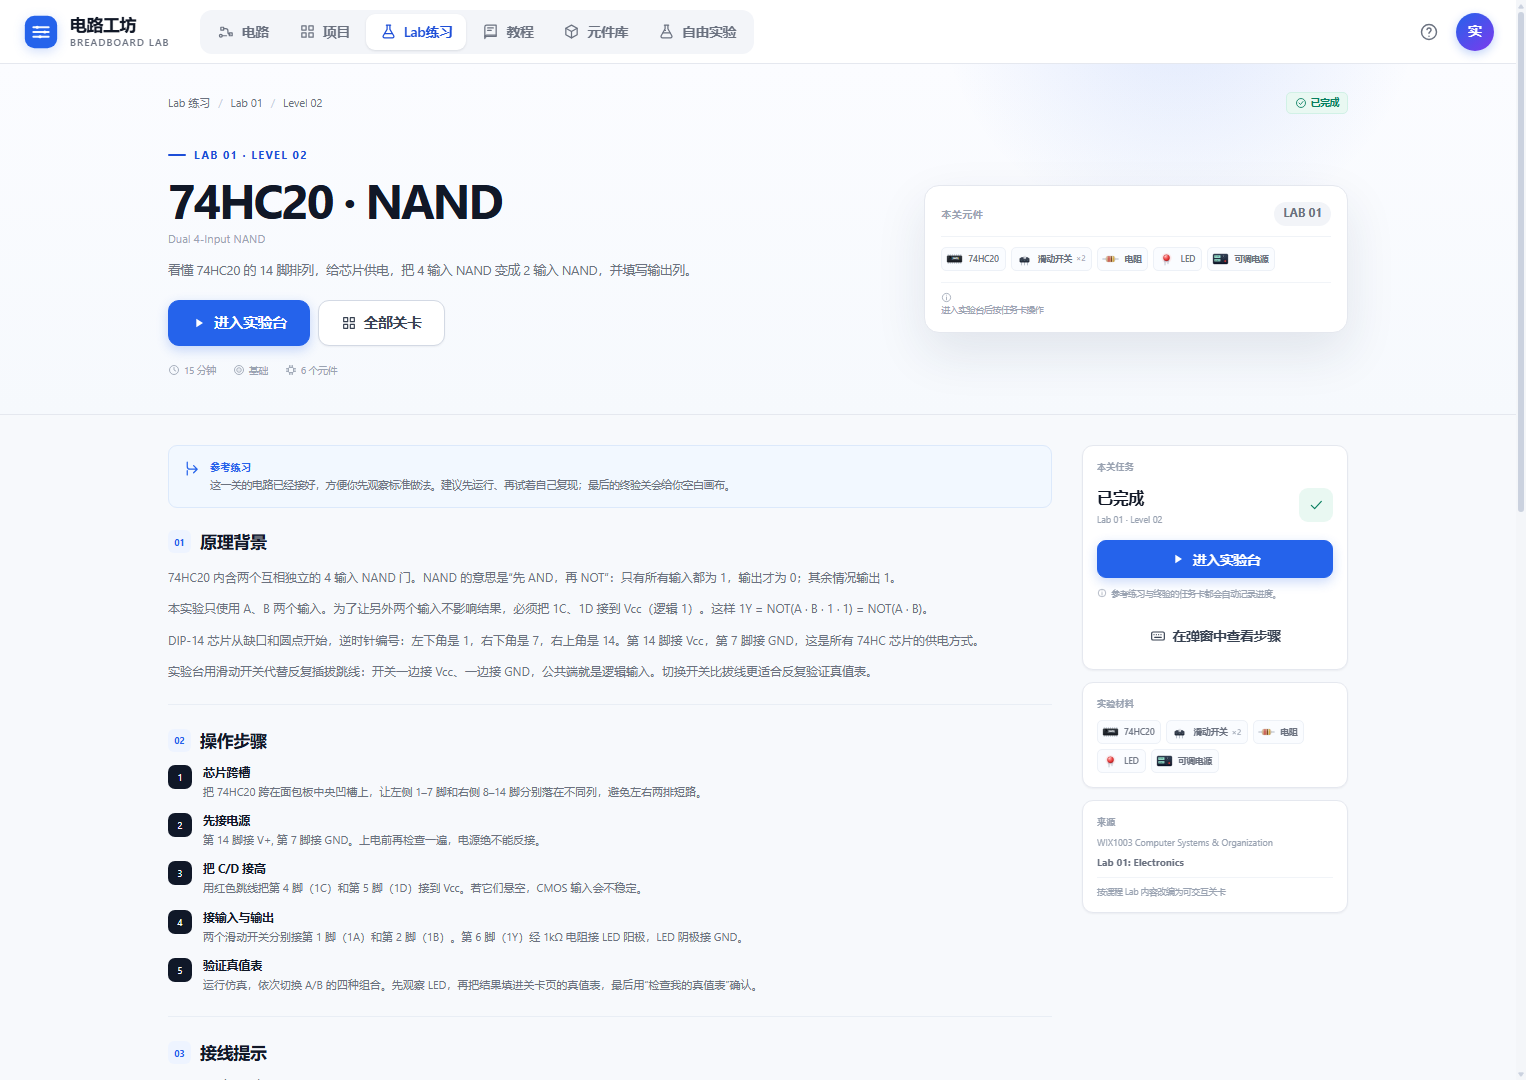
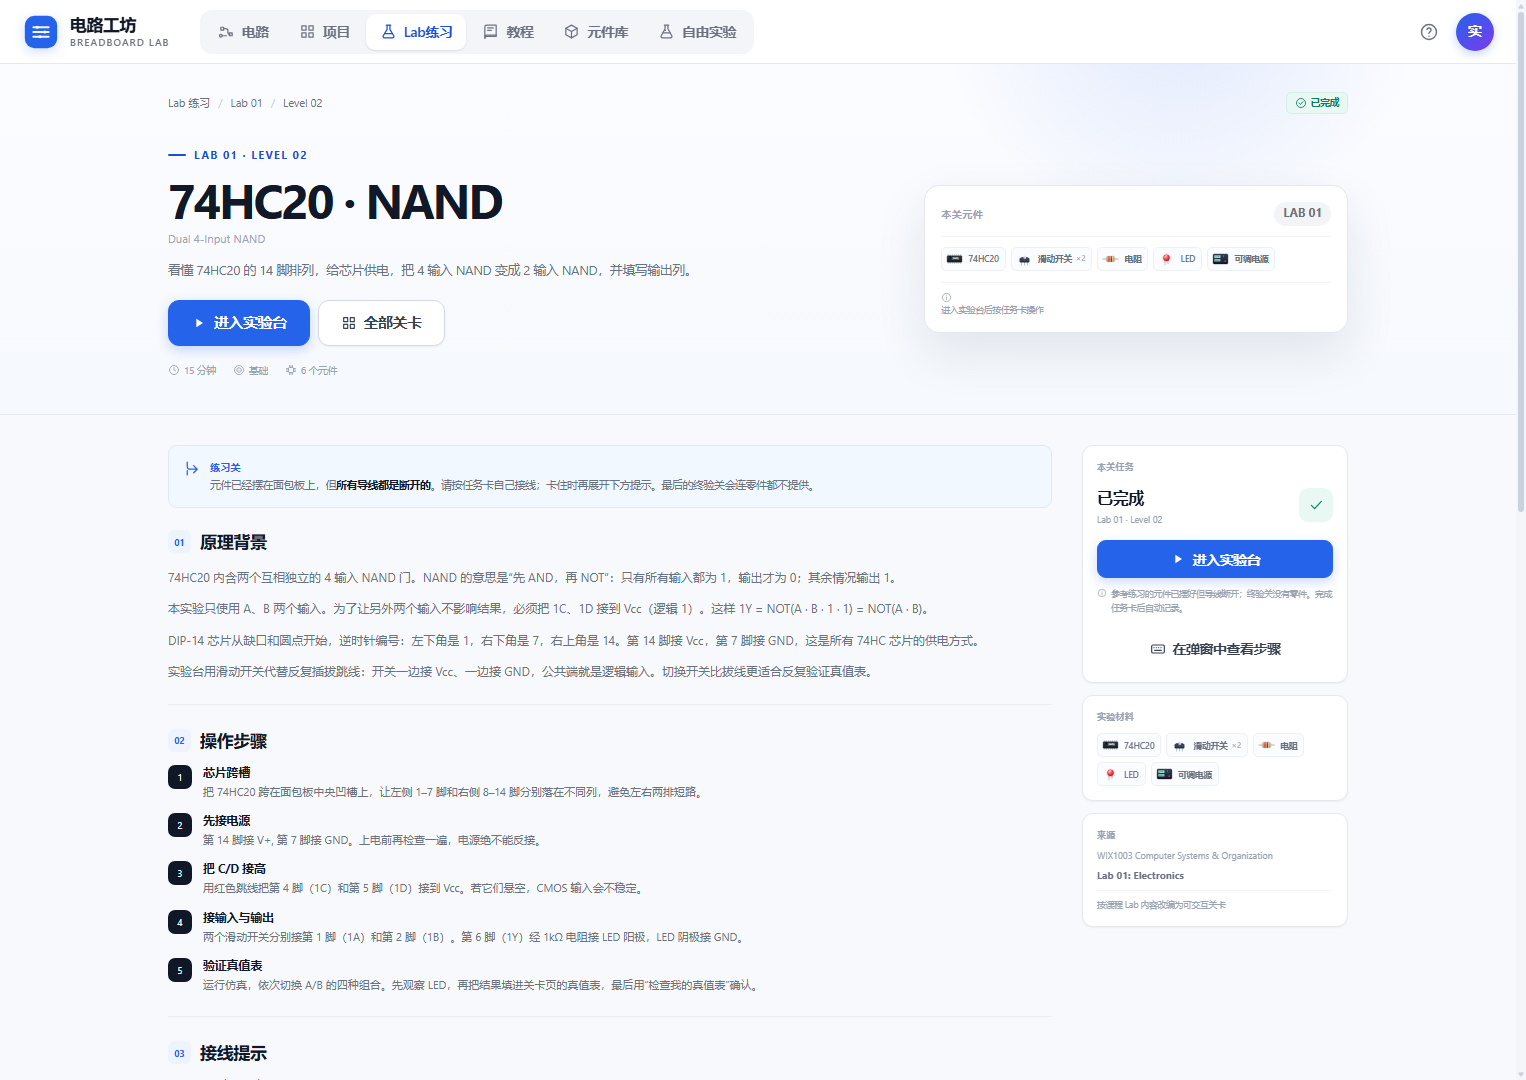
Add files via upload

diff --git a/js/views.js b/js/views.js
@@ -675,7 +675,7 @@
       '<div class="container lab-detail-body"><div class="lab-detail-main">' +
       (level.final
         ? '<div class="lab-start-banner final">' + svgIcon('target') + '<div><b>终验关 · 空白画布</b><span>这一关<strong>没有零件，也没有导线</strong>。请打开右侧元件库，自己摆放芯片、开关、电阻和 LED，再独立完成接线。</span></div></div>'
-        : '<div class="lab-start-banner">' + svgIcon('branch') + '<div><b>参考练习</b><span>这一关的电路已经接好，方便你先观察标准做法。建议先运行、再试着自己复现；最后的终验关会给你空白画布。</span></div></div>') +
+        : '<div class="lab-start-banner">' + svgIcon('branch') + '<div><b>练习关</b><span>元件已经摆在面包板上，但<strong>所有导线都是断开的</strong>。请按任务卡自己接线；卡住时再展开下方提示。最后的终验关会连零件都不提供。</span></div></div>') +
       '<section class="lab-section"><div class="lab-section-head"><span>01</span><h2>原理背景</h2></div><div class="lab-prose">' + level.background.map((p) => '<p>' + esc(p) + '</p>').join('') + '</div></section>' +
       '<section class="lab-section"><div class="lab-section-head"><span>02</span><h2>操作步骤</h2></div><ol class="lab-steps">' + level.steps.map((s, i) => '<li><span class="lab-step-num">' + (i + 1) + '</span><div><h3>' + esc(s.title) + '</h3><p>' + esc(s.body) + '</p></div></li>').join('') + '</ol></section>' +
       (level.final
@@ -686,7 +686,7 @@
       '<section class="lab-section"><div class="lab-section-head"><span>06</span><h2>完成检查</h2></div><div class="lab-checks">' + level.checkpoints.map((c) => '<div>' + svgIcon('check-circle') + '<span>' + esc(c) + '</span></div>').join('') + '</div><div class="lab-submit"><b>提交建议</b><p>' + esc(level.submit) + '</p></div></section>' +
       '<div class="lab-pager">' + (prev ? '<a href="#/labs/' + prev.id + '"><span>上一关</span><b>' + esc(prev.title) + '</b></a>' : '<span></span>') + (next ? '<a class="next" href="#/labs/' + next.id + '"><span>下一关</span><b>' + esc(next.title) + '</b></a>' : '') + '</div>' +
       '</div>' +
-      '<aside class="lab-detail-side"><div class="lab-side-card"><div class="lab-side-label">本关任务</div><div class="lab-side-progress"><div><b>' + (complete ? '已完成' : '待完成') + '</b><span>' + track.label + ' · ' + (level.final ? 'FINAL' : 'Level ' + level.number) + '</span></div>' + (complete ? '<i class="done">' + svgIcon('check') + '</i>' : '<i>' + (level.final ? '★' : level.number) + '</i>') + '</div><a class="btn primary block" href="' + href + '">' + svgIcon('play') + ' 进入实验台</a><p class="lab-side-note">' + svgIcon('info') + ' 参考练习与终验的任务卡都会自动记录进度。</p><button class="btn ghost block" data-lab-guide="' + level.id + '">' + svgIcon('keyboard') + ' 在弹窗中查看步骤</button></div>' +
+      '<aside class="lab-detail-side"><div class="lab-side-card"><div class="lab-side-label">本关任务</div><div class="lab-side-progress"><div><b>' + (complete ? '已完成' : '待完成') + '</b><span>' + track.label + ' · ' + (level.final ? 'FINAL' : 'Level ' + level.number) + '</span></div>' + (complete ? '<i class="done">' + svgIcon('check') + '</i>' : '<i>' + (level.final ? '★' : level.number) + '</i>') + '</div><a class="btn primary block" href="' + href + '">' + svgIcon('play') + ' 进入实验台</a><p class="lab-side-note">' + svgIcon('info') + ' 参考练习的元件已摆好但导线断开；终验关没有零件。完成任务卡后自动记录。</p><button class="btn ghost block" data-lab-guide="' + level.id + '">' + svgIcon('keyboard') + ' 在弹窗中查看步骤</button></div>' +
       '<div class="lab-side-card"><div class="lab-side-label">实验材料</div>' + labPartsHtml(level) + '</div>' +
       '<div class="lab-side-card source"><div class="lab-side-label">来源</div><p>' + esc(track.course) + '</p><b>' + esc(track.source) + '</b><span class="lab-source-note">按课程 Lab 内容改编为可交互关卡</span></div>' +
       '</aside></div></div>' + footerHTML();

diff --git a/js/labs.js b/js/labs.js
@@ -12,7 +12,7 @@
       course: 'WIX1003 Computer Systems & Organization',
       source: 'Lab 01: Electronics',
       color: 'blue',
-      intro: '从电源、面包板和 LED 开始，再逐一验证 74HC20、74HC04、74HC21、74HC86、74HC32 的逻辑功能，完成实验报告里的真值表。每一关的电路会先接好作为参考；最后在空白画布上完成终验。',
+      intro: '从电源、面包板和 LED 开始，再逐一验证 74HC20、74HC04、74HC21、74HC86、74HC32 的逻辑功能，完成实验报告里的真值表。练习关会把元件摆好，但导线全部断开；最后在空白画布上完成终验。',
       goals: ['认识 Vcc / GND 与逻辑电平', '会看 DIP-14 芯片引脚编号', '用 1kΩ 电阻保护 LED', '独立验证 5 种逻辑门', '从空白画布完成一门终验']
     },
     {
@@ -23,7 +23,7 @@
       course: 'WIX1003 Computer Systems & Organization',
       source: 'Lab 02: Combinational Circuit Design',
       color: 'green',
-      intro: '把 XOR、AND、OR 组合成半加器与全加器，理解 Sum / Carry 的来处，并验证完整的真值表。先看参考电路，最后在空白画布上独立搭建全加器。',
+      intro: '把 XOR、AND 和 OR 组合成半加器与全加器，理解 Sum / Carry 的来处，并验证完整的真值表。练习关的元件会摆好、导线全断；最后在空白画布上独立搭建全加器。',
       goals: ['用 XOR + AND 构造半加器', '用两个半加器 + OR 构造全加器', '理解进位链 Carry', '记录并提交真值表', '从空白画布搭建全加器']
     }
   ];
@@ -500,7 +500,7 @@
   function getLevel(id) { return LEVELS.find((l) => l.id === id) || null; }
   function levelsOf(trackId) { return LEVELS.filter((l) => l.track === trackId); }
 
-  const STORAGE_KEY = 'bbl.labs.v3';
+  const STORAGE_KEY = 'bbl.labs.v4';
   function readProgress() {
     try { return JSON.parse(localStorage.getItem(STORAGE_KEY) || '{}') || {}; } catch (e) { return {}; }
   }

diff --git a/js/engine.js b/js/engine.js
@@ -408,6 +408,7 @@
     }
     wire(s, 'r1', '2', 'led1', 'a', 'green');
     wire(s, 'led1', 'k', 'psu1', 'GND', 'black');
+    s.wires = [];
     return s;
   }
 
@@ -418,9 +419,7 @@
     const r = createComponent('resistor', 256, 388, { resistance: 1000 }); r.id = 'r1';
     const led = createComponent('led', 347, 401, { color: 'red' }); led.id = 'led1';
     s.components.push(psu, r, led);
-    wire(s, 'psu1', 'V+', 'r1', '1', 'red');
-    wire(s, 'r1', '2', 'led1', 'a', 'green');
-    wire(s, 'led1', 'k', 'psu1', 'GND', 'black');
+    s.wires = [];
     return s;
   };
   Templates['lab01-nand'] = function () { return labChipDemo('ic74hc20', 'Lab 01 · 74HC20 NAND', 'lab01-nand', { fourInput: true, ledColor: 'red' }); };
@@ -573,6 +572,7 @@
     wire(s, 'and1', '3', 'r2', '1', 'green');
     wire(s, 'r2', '2', 'led2', 'a', 'green');
     wire(s, 'led2', 'k', 'psu1', 'GND', 'black');
+    s.wires = [];
     return s;
   };
 
@@ -621,6 +621,7 @@
     wire(s, 'or1', '3', 'rCout', '1', 'green');
     wire(s, 'rCout', '2', 'ledCout', 'a', 'green');
     wire(s, 'ledCout', 'k', 'psu1', 'GND', 'black');
+    s.wires = [];
     return s;
   };
 

diff --git a/README.md b/README.md
@@ -28,7 +28,7 @@
 - **24 篇元件百科**：每种元件都有标准 SVG 造型、参数表、引脚说明、使用方法、注意事项和一个小实验。
 - **10 节系统课程**：从“认识面包板”到“半加器”和“双条件报警器”，每课包含动手步骤、原理拆解、公式/真值表、常见错误、随堂测验。
 - **项目工作台**：8 个可直接打开的示例项目、最近编辑记录、空白画布和按难度分类的入门路径。
-- **Lab 练习关卡**：根据 WIX1003《Computer Systems & Organization》的 Lab 01 与 Lab 02 制作，共 10 个关卡。前 8 关是可直接观察的参考练习，电路已经接好；最后两关是**空白终验**——没有零件、没有导线，需要自己从元件库摆放并完成 Lab 的最终交付。每一关都有原理、操作步骤、空白真值表、错误提示和可展开的提示。
+- **Lab 练习关卡**：根据 WIX1003《Computer Systems & Organization》的 Lab 01 与 Lab 02 制作，共 10 个关卡。前 8 关是练习关：元件已摆好、导线全部断开，需要自己接线；最后两关是**空白终验**——没有零件、没有导线，需要自己从元件库摆放并完成 Lab 的最终交付。每一关都有原理、操作步骤、空白真值表、错误提示和可展开的提示。
 - **Arduino 代码实验室**：底部代码面板支持可视化积木示例和可编辑文本，内置 setup/loop、pinMode、digitalWrite、analogWrite、digitalRead、analogRead、if/else、变量、Serial 与 delay；代码可以真正驱动 D13/D9 的 LED、读取 D2 按钮和 A0 电位器，并带串口监视器。
 - **可交互仿真**：LED 限流与亮度、按钮/开关通断、电位器分压、74HC 逻辑门真值表、蜂鸣器、电机、舵机；短路/过流/悬空输入/未供电芯片提示。
 - **独立自由实验空间**：空白画布、完整元件库、示例电路，自动保存，可导入/导出 JSON。
@@ -52,7 +52,7 @@
 
 ![Lab 练习](docs/preview-labs.png)
 
-![Lab 参考练习](docs/preview-lab-level.png)
+![Lab 练习关](docs/preview-lab-level.png)
 
 ![Lab 终验关](docs/preview-lab-final.png)
 
@@ -213,7 +213,7 @@ python -m http.server 8080
 - **Lab 01 · Electronics**：电源/面包板/LED → 74HC20 NAND → 74HC04 NOT → 74HC21 AND → 74HC86 XOR → 74HC32 OR，共 6 个参考练习，加 1 个空白终验。
 - **Lab 02 · Combinational Circuit Design**：半加器 → 全加器，共 2 个参考练习，加 1 个空白终验。
 
-前 8 个参考练习的电路已经接好，适合先运行观察、理解标准做法，再尝试自己复现。最后两关是终验：**画布为空，没有任何零件**；你需要自己打开元件库，摆放芯片、开关、电阻、LED 和电源，独立完成 Lab 01 的五片芯片验证台或 Lab 02 的全加器。
+前 8 个练习关的元件已经摆好，但导线全部断开；你需要按任务卡自己接线。最后两关是终验：**画布为空，没有任何零件**；你需要自己打开元件库，摆放芯片、开关、电阻、LED 和电源，独立完成 Lab 01 的五片芯片验证台或 Lab 02 的全加器。
 
 真值表的输出列始终是空的：先自己填，再点「检查我的真值表」。检查只会标出哪几行不对；想不出来时可以点「给我一个提示」。参考练习的接线表默认折叠；终验关不提供完整接线表，只给思路提示。
 
